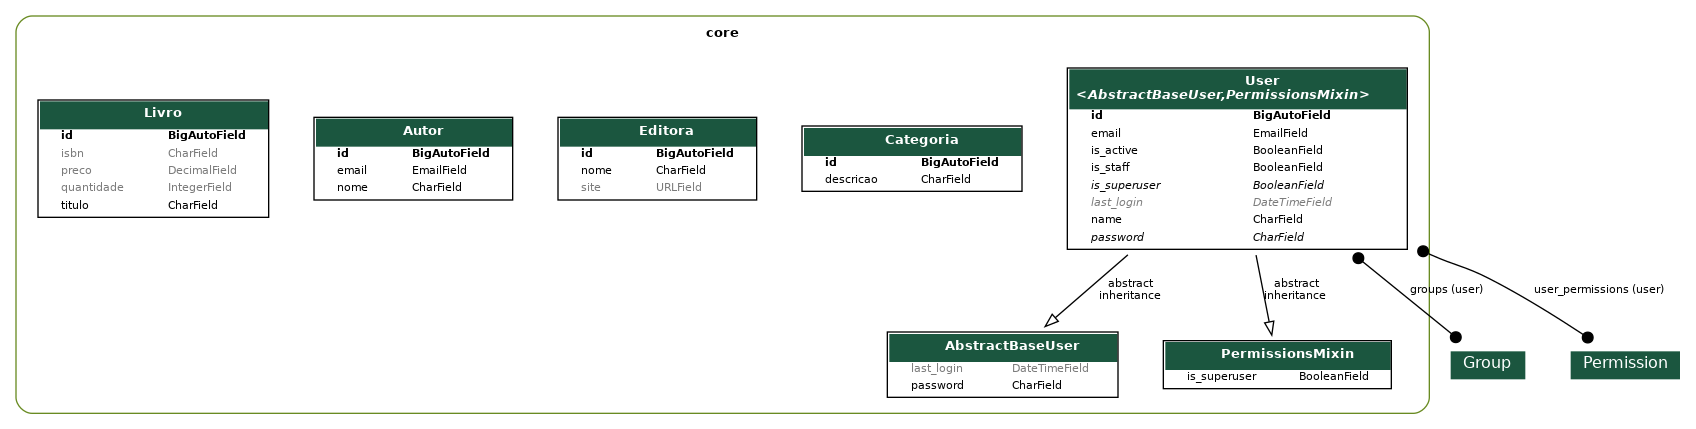
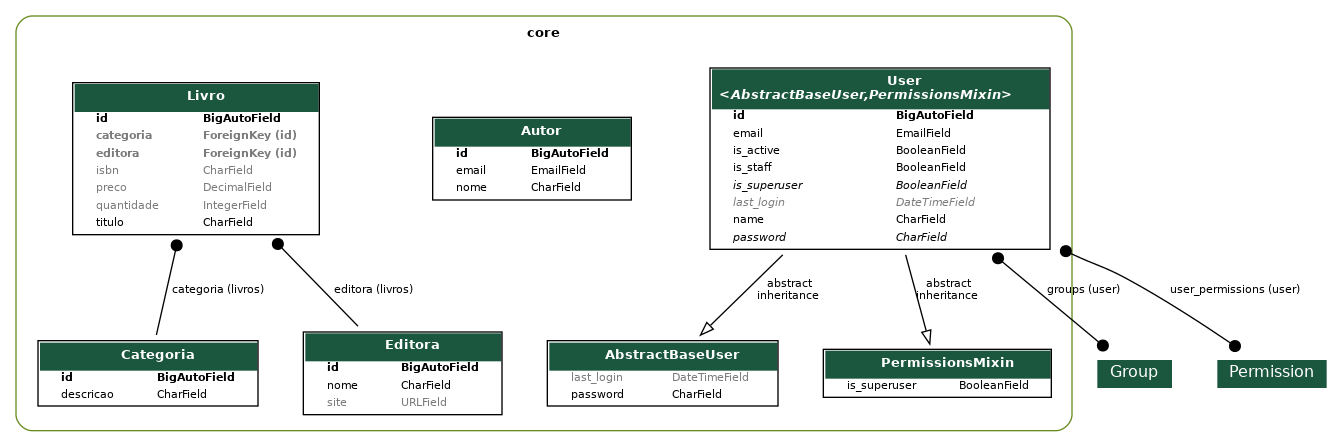
Adiciona relacionamento de livro e editoras

diff --git a/core/migrations/0007_livro_editora_alter_livro_categoria.py b/core/migrations/0007_livro_editora_alter_livro_categoria.py
@@ -1,0 +1,36 @@
+# Generated by Django 5.0.2 on 2024-07-29 18:04
+
+import django.db.models.deletion
+from django.db import migrations, models
+
+
+class Migration(migrations.Migration):
+
+    dependencies = [
+        ("core", "0006_livro_categoria"),
+    ]
+
+    operations = [
+        migrations.AddField(
+            model_name="livro",
+            name="editora",
+            field=models.ForeignKey(
+                blank=True,
+                null=True,
+                on_delete=django.db.models.deletion.PROTECT,
+                related_name="livros",
+                to="core.editora",
+            ),
+        ),
+        migrations.AlterField(
+            model_name="livro",
+            name="categoria",
+            field=models.ForeignKey(
+                blank=True,
+                null=True,
+                on_delete=django.db.models.deletion.PROTECT,
+                related_name="livros",
+                to="core.categoria",
+            ),
+        ),
+    ]

diff --git a/core/models/livro.py b/core/models/livro.py
@@ -1,10 +1,13 @@
 from django.db import models
+from .categoria import Categoria
+from .editora import Editora
 
 class Livro(models.Model):
     titulo = models.CharField(max_length=100)
     isbn = models.CharField(max_length=13, null=True, blank=True)
     quantidade = models.IntegerField(default=0, null=True, blank=True)
     preco = models.DecimalField(max_digits=7, decimal_places=2, default=0, null=True, blank=True)
-
+    categoria = models.ForeignKey(Categoria, on_delete=models.PROTECT, related_name="livros", null=True, blank=True)
+    editora = models.ForeignKey(Editora, on_delete=models.PROTECT, related_name="livros", null=True, blank=True)
     def __str__(self):
         return  f"({self.id}) {self.titulo}"

diff --git a/core/migrations/0006_livro_categoria.py b/core/migrations/0006_livro_categoria.py
@@ -1,0 +1,22 @@
+# Generated by Django 5.0.2 on 2024-07-29 17:59
+
+import django.db.models.deletion
+from django.db import migrations, models
+
+
+class Migration(migrations.Migration):
+
+    dependencies = [
+        ("core", "0005_livro"),
+    ]
+
+    operations = [
+        migrations.AddField(
+            model_name="livro",
+            name="categoria",
+            field=models.ForeignKey(
+                default=2, on_delete=django.db.models.deletion.PROTECT, related_name="livros", to="core.categoria"
+            ),
+            preserve_default=False,
+        ),
+    ]

diff --git a/core/admin.py b/core/admin.py
@@ -53,3 +53,4 @@ admin.site.register(models.User, UserAdmin)
 admin.site.register(models.Categoria)
 admin.site.register(models.Editora)
 admin.site.register(models.Autor)
+admin.site.register(models.Livro)
